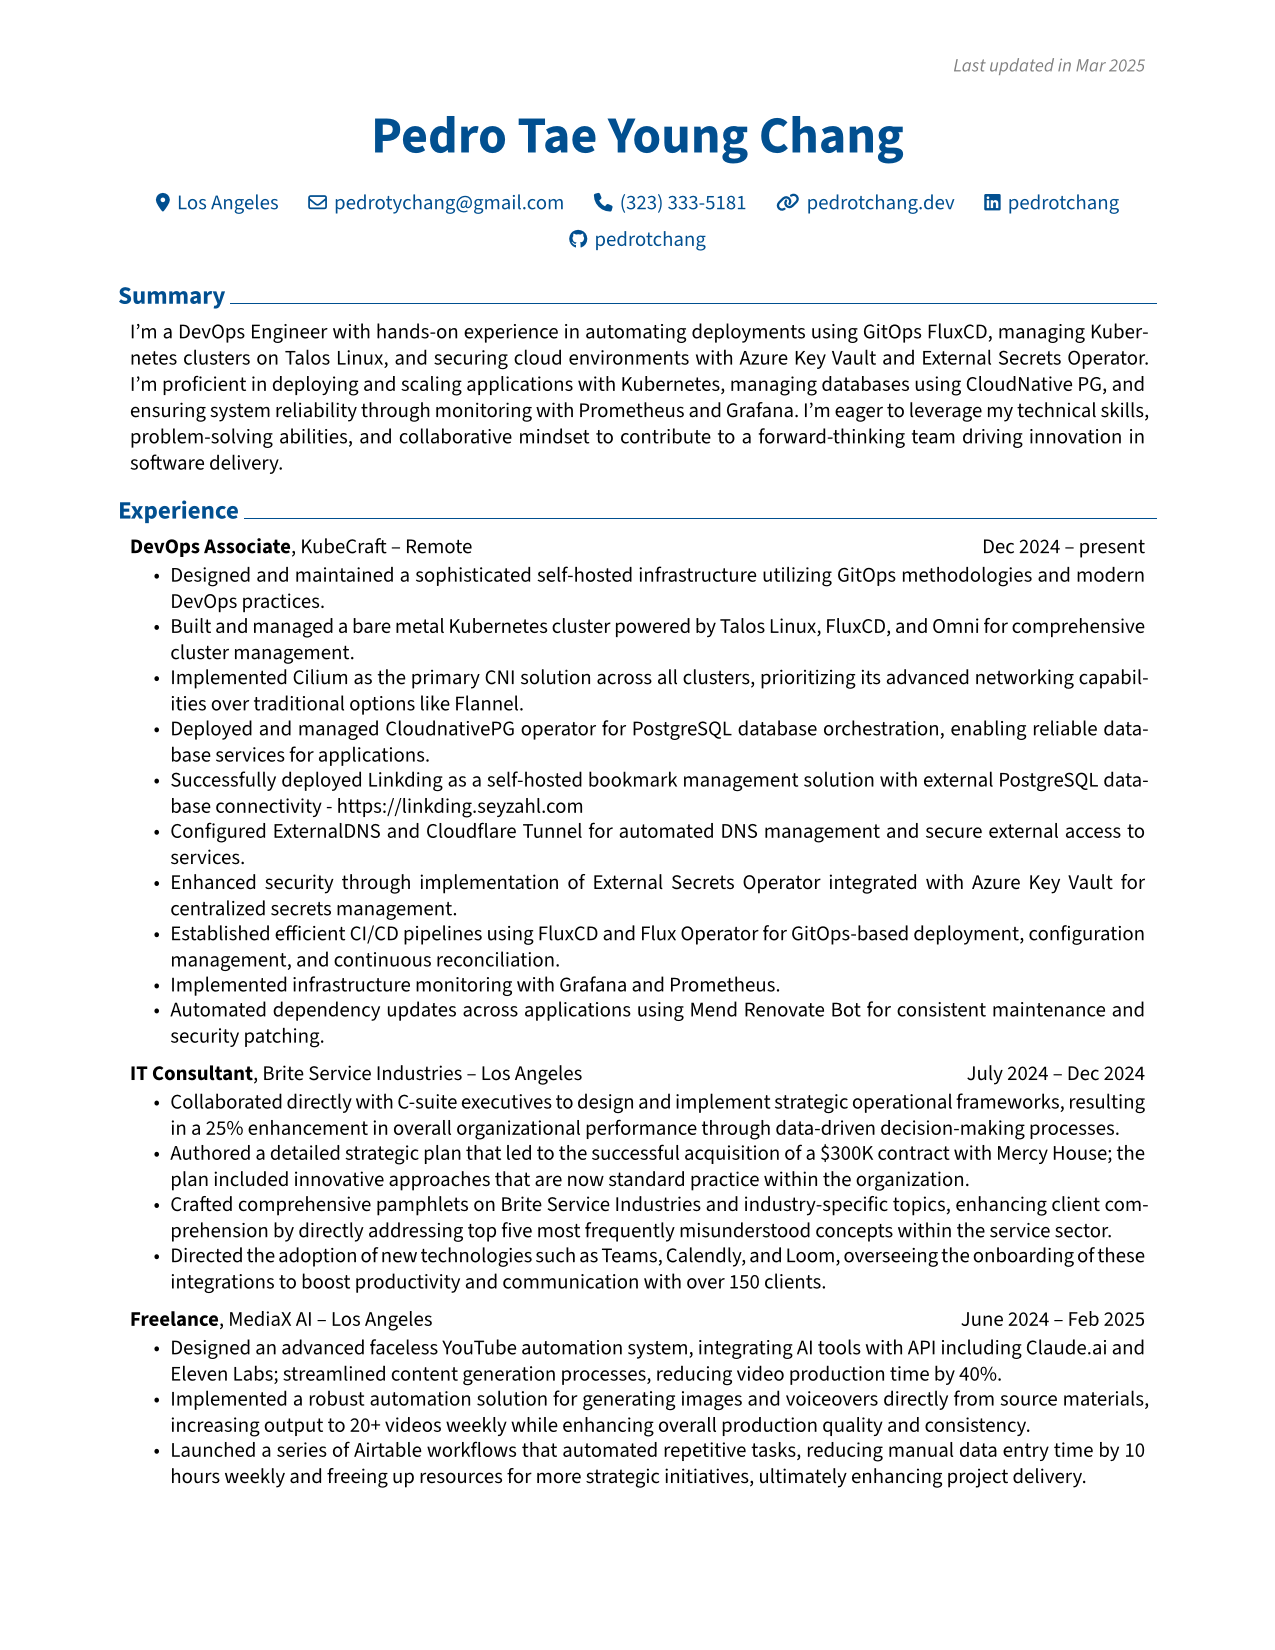
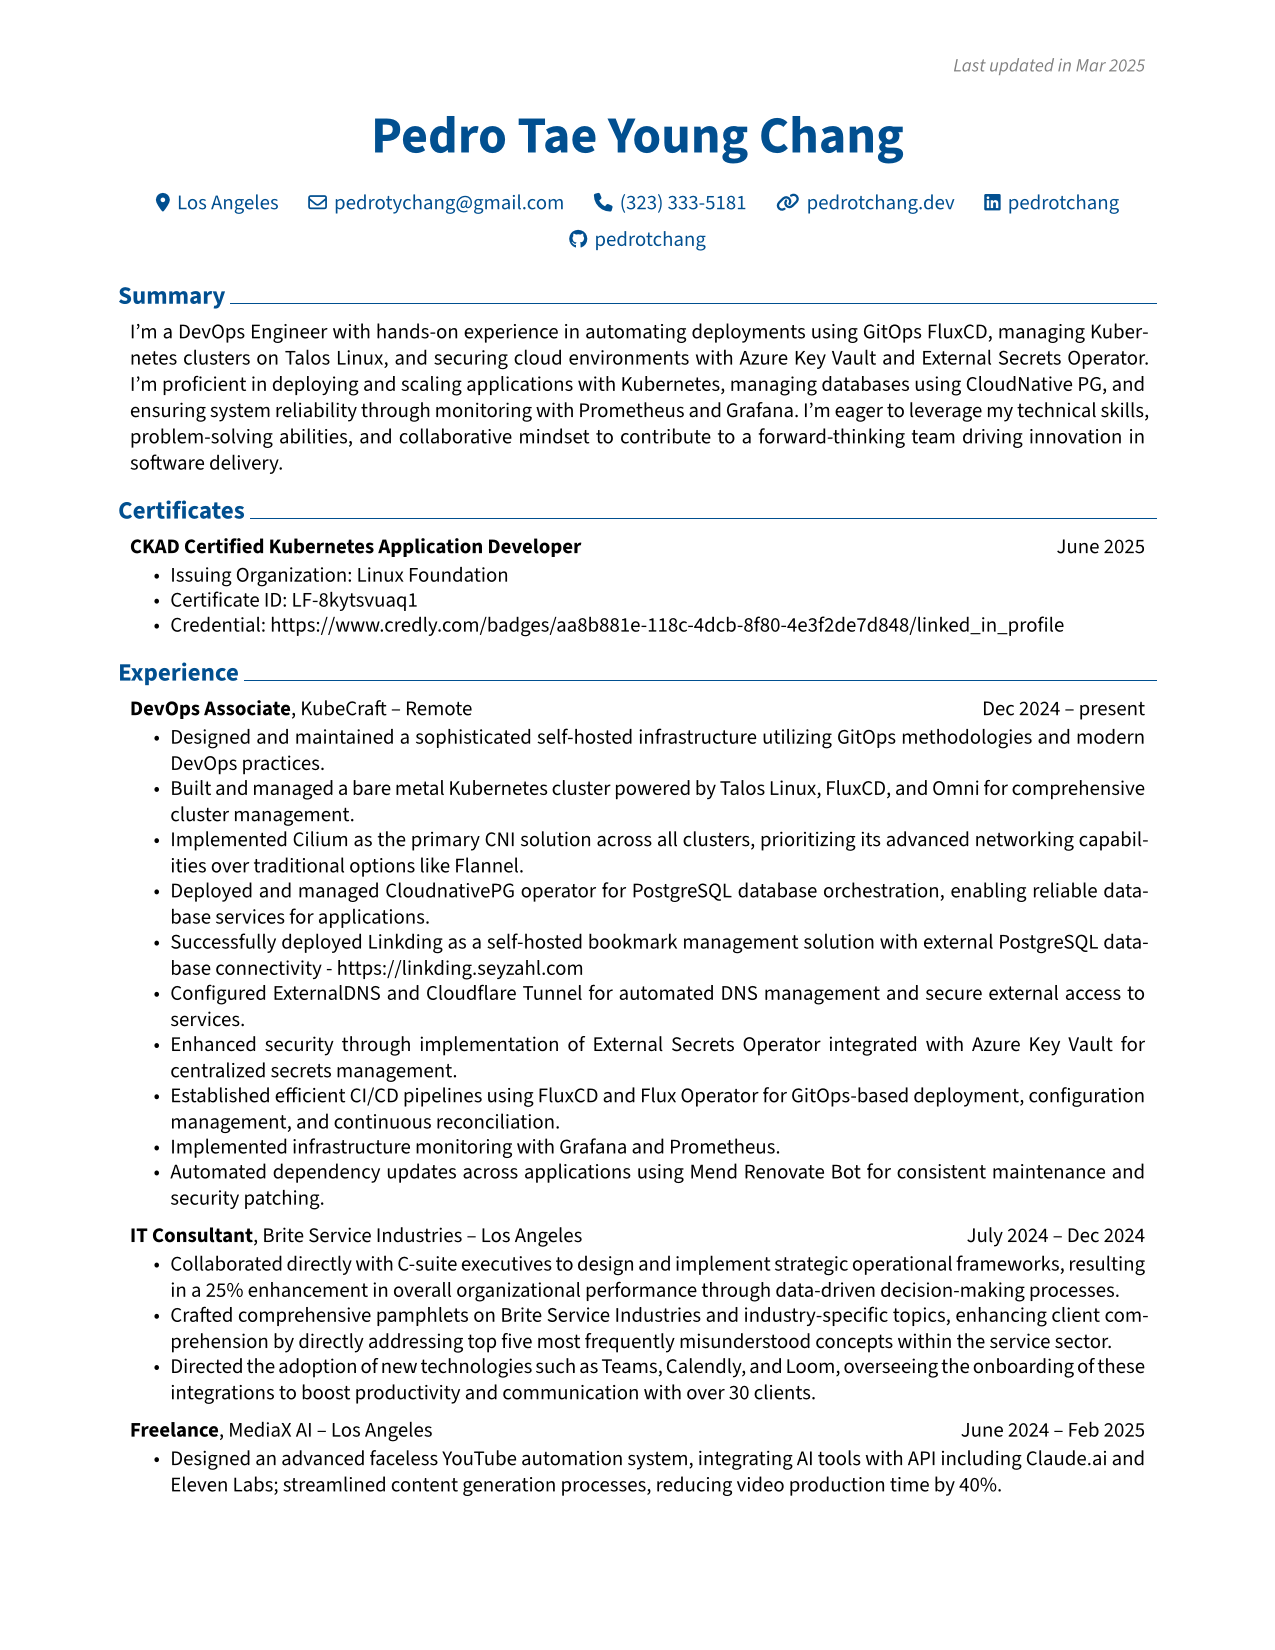
update: cv_certs

Changed region(s): [[0.0918, 0.3091, 0.9176, 0.9273]]

diff --git a/rendercv_output/Pedro_Tae_Young_Chang_CV.html b/rendercv_output/Pedro_Tae_Young_Chang_CV.html
@@ -50,6 +50,14 @@
         </ul>
         <h1>Summary</h1>
         <p>I’m a DevOps Engineer with hands-on experience in automating deployments using GitOps FluxCD, managing Kubernetes clusters on Talos Linux, and securing cloud environments with Azure Key Vault and External Secrets Operator. I’m proficient in deploying and scaling applications with Kubernetes, managing databases using CloudNative PG, and ensuring system reliability through monitoring with Prometheus and Grafana. I’m eager to leverage my technical skills, problem-solving abilities, and collaborative mindset to contribute to a forward-thinking team driving innovation in software delivery.</p>
+        <h1>Certificates</h1>
+        <h2>CKAD Certified Kubernetes Application Developer</h2>
+        <ul>
+        <li>June 2025</li>
+        <li>Issuing Organization: Linux Foundation</li>
+        <li>Certificate ID: LF-8kytsvuaq1</li>
+        <li>Credential: https://www.credly.com/badges/aa8b881e-118c-4dcb-8f80-4e3f2de7d848/linked_in_profile</li>
+        </ul>
         <h1>Experience</h1>
         <h2>KubeCraft, DevOps Associate</h2>
         <ul>
@@ -71,9 +79,8 @@
         <li>July 2024 – Dec 2024</li>
         <li>Los Angeles</li>
         <li>Collaborated directly with C-suite executives to design and implement strategic operational frameworks, resulting in a 25% enhancement in overall organizational performance through data-driven decision-making processes.</li>
-        <li>Authored a detailed strategic plan that led to the successful acquisition of a $300K contract with Mercy House; the plan included innovative approaches that are now standard practice within the organization.</li>
         <li>Crafted comprehensive pamphlets on Brite Service Industries and industry-specific topics, enhancing client comprehension by directly addressing top five most frequently misunderstood concepts within the service sector.</li>
-        <li>Directed the adoption of new technologies such as Teams, Calendly, and Loom, overseeing the onboarding of these integrations to boost productivity and communication with over 150 clients.</li>
+        <li>Directed the adoption of new technologies such as Teams, Calendly, and Loom, overseeing the onboarding of these integrations to boost productivity and communication with over 30 clients.</li>
         </ul>
         <h2>MediaX AI, Freelance</h2>
         <ul>

diff --git a/rendercv_output/Pedro_Tae_Young_Chang_CV.md b/rendercv_output/Pedro_Tae_Young_Chang_CV.md
@@ -12,6 +12,15 @@
 
 I’m a DevOps Engineer with hands-on experience in automating deployments using GitOps FluxCD, managing Kubernetes clusters on Talos Linux, and securing cloud environments with Azure Key Vault and External Secrets Operator. I’m proficient in deploying and scaling applications with Kubernetes, managing databases using CloudNative PG, and ensuring system reliability through monitoring with Prometheus and Grafana. I’m eager to leverage my technical skills, problem-solving abilities, and collaborative mindset to contribute to a forward-thinking team driving innovation in software delivery.
 
+# Certificates
+
+## CKAD Certified Kubernetes Application Developer
+
+- June 2025
+- Issuing Organization: Linux Foundation
+- Certificate ID: LF-8kytsvuaq1
+- Credential: https://www.credly.com/badges/aa8b881e-118c-4dcb-8f80-4e3f2de7d848/linked_in_profile
+
 # Experience
 
 ## KubeCraft, DevOps Associate
@@ -34,9 +43,8 @@ I’m a DevOps Engineer with hands-on experience in automating deployments using
 - July 2024 – Dec 2024
 - Los Angeles
 - Collaborated directly with C-suite executives to design and implement strategic operational frameworks, resulting in a 25% enhancement in overall organizational performance through data-driven decision-making processes.
-- Authored a detailed strategic plan that led to the successful acquisition of a $300K contract with Mercy House; the plan included innovative approaches that are now standard practice within the organization.
 - Crafted comprehensive pamphlets on Brite Service Industries and industry-specific topics, enhancing client comprehension by directly addressing top five most frequently misunderstood concepts within the service sector.
-- Directed the adoption of new technologies such as Teams, Calendly, and Loom, overseeing the onboarding of these integrations to boost productivity and communication with over 150 clients.
+- Directed the adoption of new technologies such as Teams, Calendly, and Loom, overseeing the onboarding of these integrations to boost productivity and communication with over 30 clients.
 
 ## MediaX AI, Freelance
 
